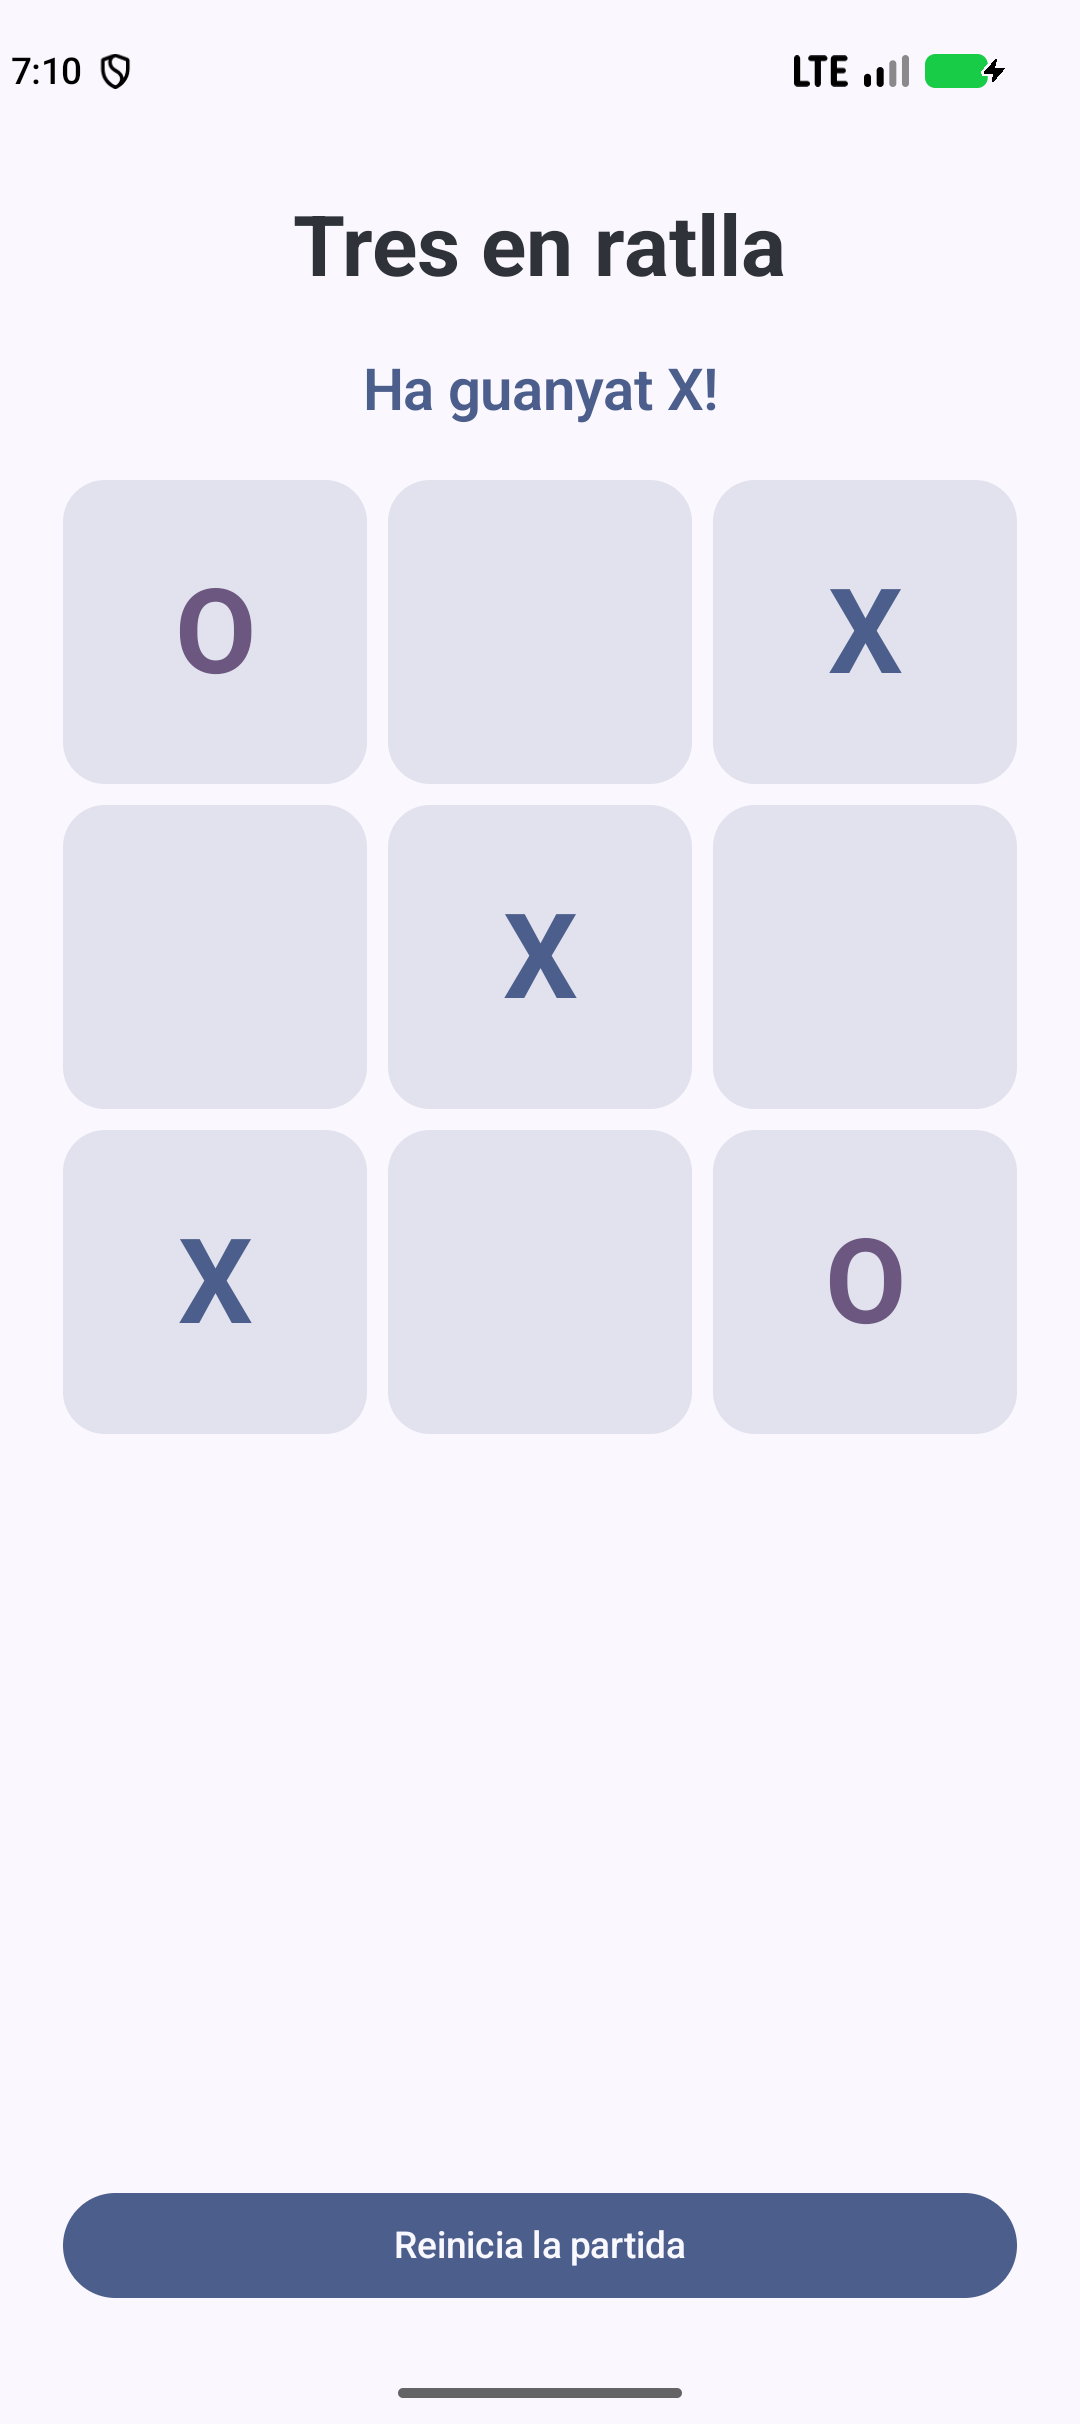
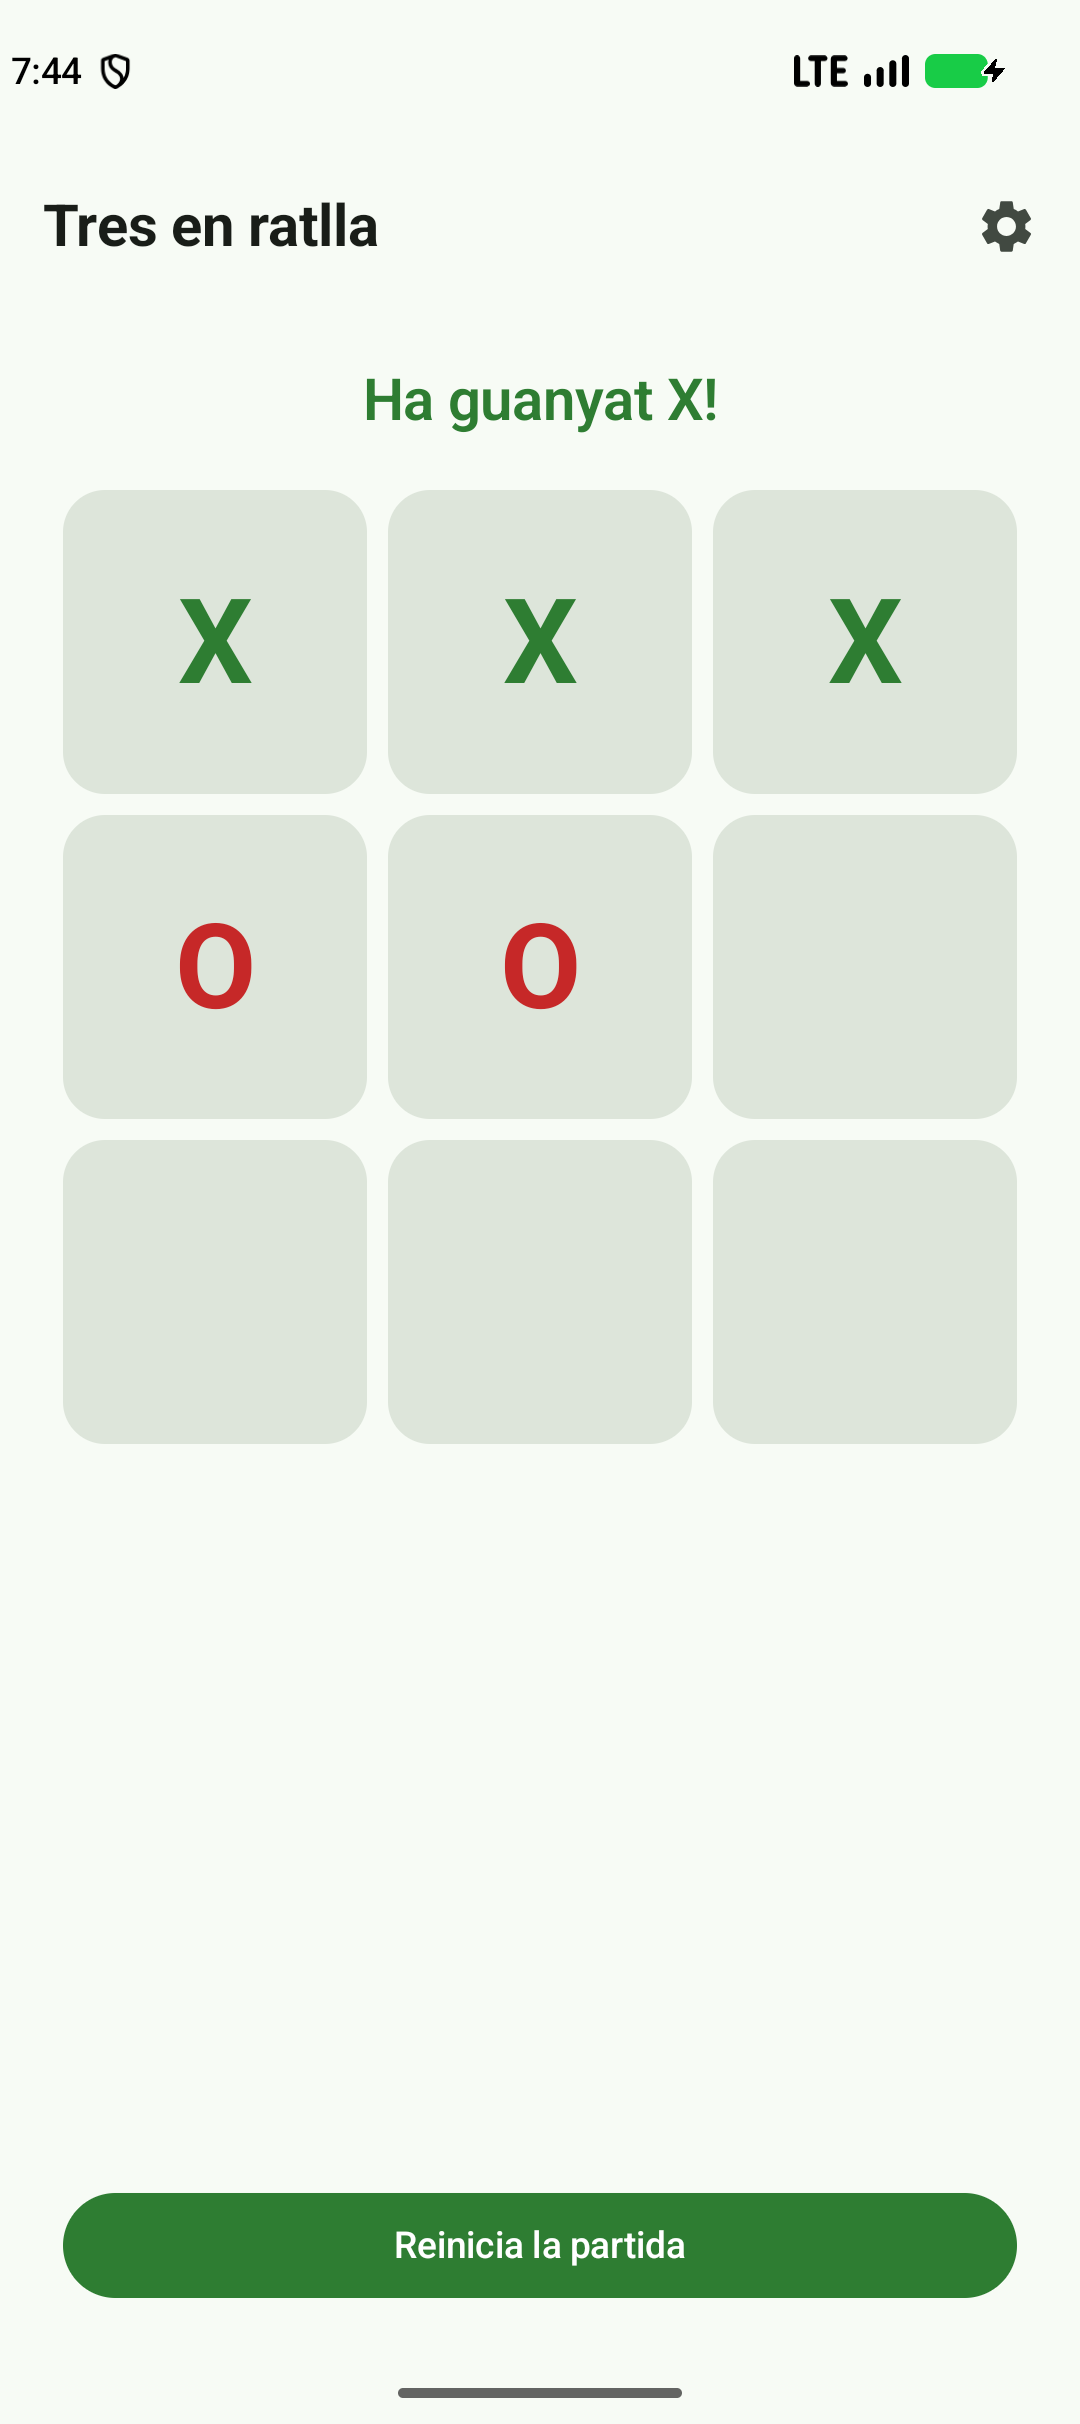
docs: documenta els temes i el selector d'idioma
Actualitza el README i l'AGENTS amb l'estructura de configuració, les APIs de locale i les noves proves, i regenera les captures de l'aplicació.

diff --git a/README.md b/README.md
@@ -105,20 +105,48 @@ locals de la interfície que no formen part del model del joc.
 
 ```text
 app/src/main/java/com/example/tresenratlla/
-├── MainActivity.kt                 # Punt d'entrada; aplica el tema i mostra GameScreen
+├── MainActivity.kt                 # Punt d'entrada; aplica l'idioma i mostra TresEnRatllaApp
 ├── model/
 │   ├── CellModel.kt                # Casella immutable
 │   ├── PlayerSymbol.kt             # X / O
 │   └── BoardModel.kt               # Estat i regles pures del joc
+├── settings/
+│   ├── AppLanguage.kt              # Català / Español / English
+│   └── SettingsRepository.kt       # Persistència amb SharedPreferences
 ├── viewmodel/
 │   └── GameViewModel.kt            # MutableStateFlow + accions de la UI
 └── ui/
-    ├── GameScreen.kt               # Pantalla, estat del joc i reinici
+    ├── TresEnRatllaApp.kt          # Estat del tema/idioma i navegació a configuració
+    ├── GameScreen.kt               # Pantalla, estat del joc, reinici i engranatge
+    ├── settings/
+    │   └── SettingsScreen.kt       # Selectors de tema i idioma
     ├── components/
     │   ├── BoardGrid.kt            # Graella 3x3 amb LazyVerticalGrid
-    │   └── CellItemView.kt         # Casella clicable
-    └── theme/                      # Tema Material 3
+    │   └── CellItemView.kt         # Casella clicable amb el color de X/O
+    └── theme/
+        ├── AppTheme.kt             # Els quatre temes + LocalPlayerColors
+        ├── Color.kt                # Paletes Material 3
+        └── Theme.kt                # TresEnRatllaTheme
 ```
+
+### Temes i idiomes
+
+L'engranatge de la barra superior obre la pantalla de configuració, que ofereix:
+
+- **Quatre temes Material 3**: verd/vermell clar, verd/vermell fosc, blau/taronja clar i
+  blau/taronja fosc. El color de la **X** és el verd o el blau, i el de la **O** el vermell o el
+  taronja. El tema triat s'aplica immediatament i es desa amb `SharedPreferences`.
+- **Tres idiomes**: català (per defecte), español i English. Els textos viuen a
+  `res/values/strings.xml` (català), `values-es` i `values-en`.
+
+El canvi d'idioma utilitza les APIs de **locale per aplicació** d'Android:
+`AppCompatDelegate.setApplicationLocales(LocaleListCompat.forLanguageTags(...))`. Per això
+`MainActivity` hereta d'`AppCompatActivity` i el manifest declara `android:localeConfig` i el servei
+`AppLocalesMetadataHolderService`, que desa el locale també a les versions antigues d'Android.
+Com que canviar el locale pot recrear l'activitat, `TresEnRatllaApp` recupera el tema i l'idioma
+desats perquè la recreació no els perdi.
+
+![Pantalla de configuració amb els quatre temes i els tres idiomes](docs/captura-configuracio.png)
 
 ### Flux d'una jugada
 
@@ -191,7 +219,14 @@ cmd.exe /c "gradlew.bat testDebugUnitTest"
 - **`Surface` amb `onClick`**: afegeix comportament tàctil i estat de polsació a una superfície de
   Material 3.
 - **`stringResource()`**: llegeix textos de `res/values/strings.xml` per mantenir la UI
-  localitzable.
+  localitzable. Amb `values-es` i `values-en`, el mateix codi mostra l'idioma actiu.
+- **`CompositionLocalProvider` / `staticCompositionLocalOf`**: permeten exposar els colors de X i O
+  del tema actiu (`LocalPlayerColors`) a qualsevol composable sense passar-los per paràmetre.
+- **`AppCompatDelegate.setApplicationLocales()`**: canvia l'idioma només per a l'aplicació, sense
+  tocar la configuració del sistema. `LocaleListCompat.forLanguageTags("ca")` construeix la llista
+  de locales.
+- **`SharedPreferences`**: emmagatzematge clau-valor síncron. És suficient per a dos ajustos i
+  permet llegir el tema i l'idioma abans de la primera composició.
 - **`enableEdgeToEdge()`**: permet que l'app dibuixi sota les barres del sistema; el `Scaffold`
   aplica el padding necessari.
 
@@ -203,6 +238,10 @@ Els tests unitaris cobreixen la lògica del model i la integració bàsica amb e
   moviments invàlids, victòria horitzontal/vertical/diagonal, empat i bloqueig després del final.
 - `app/src/test/java/com/example/tresenratlla/viewmodel/GameViewModelTest.kt`: estat inicial,
   actualització en clicar i reinici.
+- `app/src/test/java/com/example/tresenratlla/ui/theme/AppThemeTest.kt`: hi ha dos temes clars i dos
+  de foscos, i cada tema dona colors diferents i visibles a X i O.
+- `app/src/test/java/com/example/tresenratlla/settings/AppLanguageTest.kt`: resolució de `ca`/`es`/
+  `en` i valor per defecte (català) davant de valors desconeguts.
 
 ```bat
 gradlew.bat testDebugUnitTest

diff --git a/AGENTS.md b/AGENTS.md
@@ -4,8 +4,10 @@
 Single-module Android app (`:app`) in Kotlin + Jetpack Compose implementing Tic-Tac-Toe with
 MVVM. `docs/MVVM-Tres en ratlla.md` (Catalan) is the authoritative assignment spec.
 `BoardModel` holds the pure game logic; `GameViewModel` exposes it through `StateFlow`;
-Compose UI lives under `ui/` (`GameScreen`, `BoardGrid`, `CellItemView`). Tests are in
-`app/src/test` and cover the model and ViewModel.
+Compose UI lives under `ui/` (`GameScreen`, `BoardGrid`, `CellItemView`). Settings (four Material 3
+themes and Catalan/Spanish/English) live under `settings/` and `ui/settings/`, persisted with
+`SharedPreferences`. Tests are in `app/src/test` and cover the model, ViewModel, themes and language
+resolution.
 
 ## Commands
 Run from the repo root. The WSL shell has no `java`/`git`, so use the Windows toolchain:
@@ -45,6 +47,9 @@ Run from the repo root. The WSL shell has no `java`/`git`, so use the Windows to
   that package name.
 - No DI, navigation, or networking libraries are set up. Keep the Compose/AndroidX stack already
   declared unless the task requires more.
+- Theme/language selection uses `AppCompatDelegate.setApplicationLocales` (so `MainActivity`
+  extends `AppCompatActivity`); keep the AppCompat locale service and `android:localeConfig` in the
+  manifest. Base resources are Catalan; add strings to `values-es`/`values-en` too.
 
 ## Assignment constraints
 - `BoardModel` must stay immutable: return updated instances via `.copy()`; the View must not
